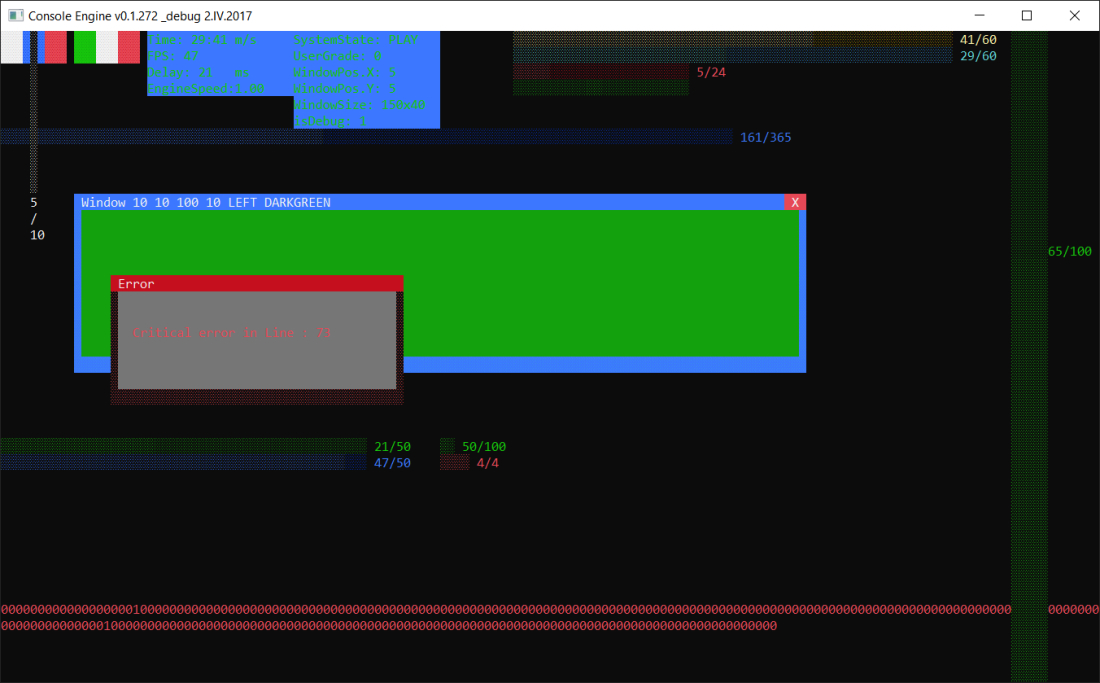
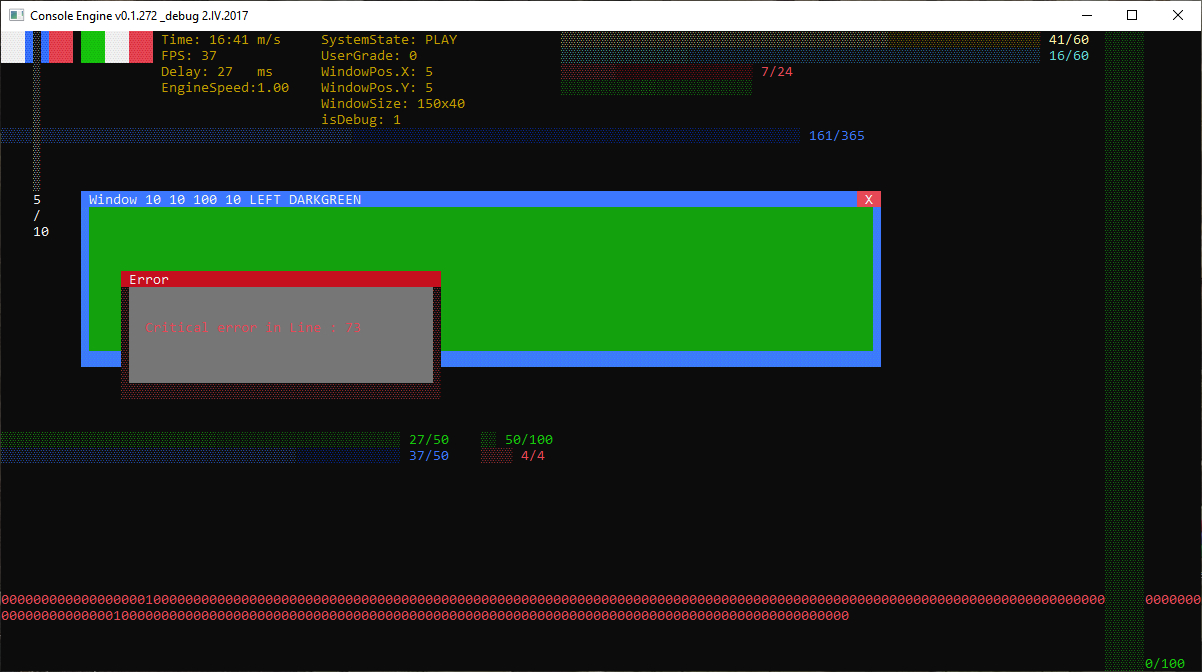
Added a screenshot of the working program

diff --git a/ConsoleRender.cpp b/ConsoleRender.cpp
@@ -308,8 +308,8 @@ void CCRender::RenderProgressBarExV(int pi_value, int pi_maxValue, int pi_size_w
 
 void CCRender::RenderTimeInformer(int pi_x, int pi_y)
 {
-	RenderBackground(pi_x, pi_y, 20, 4, CC_BLUE);
-	SetConsoleColor(CC_BLUE, CC_GREEN);
+	RenderBackground(pi_x, pi_y, 20, 4, CC_BLACK);
+	SetConsoleColor(CC_BLACK, CC_DARKYELLOW);
 
 	NEWCOUNTER
 		if (m_pEngineTimeInfo->Time < SECPERHOUR * 1000)
@@ -335,8 +335,8 @@ void CCRender::RenderTimeInformer(int pi_x, int pi_y)
 
 void CCRender::RenderClientInformer(int pi_x, int pi_y)
 {
-	RenderBackground(pi_x, pi_y, 20, 6, CC_BLUE);
-	SetConsoleColor(CC_BLUE, CC_GREEN);
+	RenderBackground(pi_x, pi_y, 20, 6, CC_BLACK);
+	SetConsoleColor(CC_BLACK, CC_DARKYELLOW);
 	NEWCOUNTER
 		ConsolePrint(pi_x, pi_y + COUNTER, "SystemState: %s", GetStateName(m_pClientInfo->bySystemState));
 		ConsolePrint(pi_x, pi_y + COUNTER, "UserGrade: %d", m_pClientInfo->byUserGrade);
